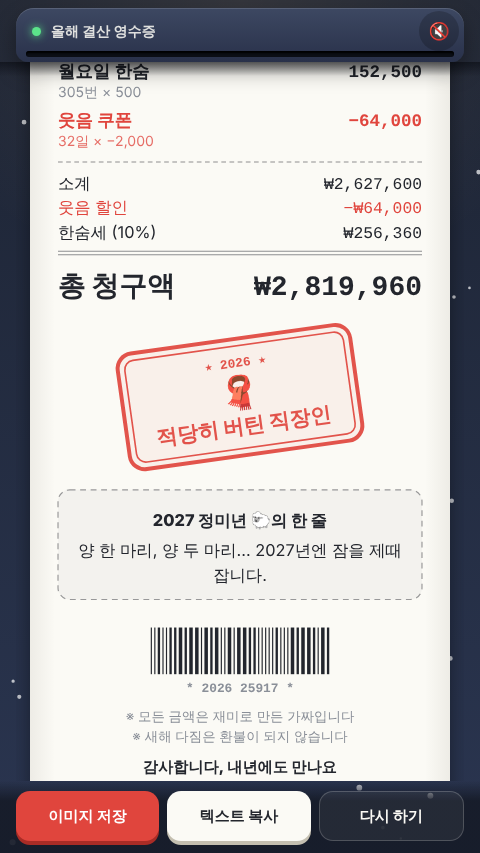
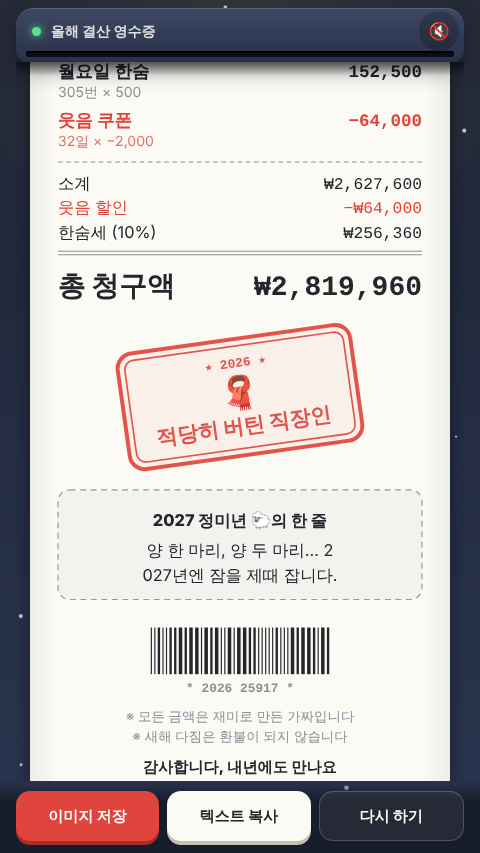
Add the Google Drive handoff for Gemini research and cover images
Records the Drive folders the owner uses for subscription-only steps,
adds the first cover prompt to the job, and makes the play build prefer
an item's cover.png over its QA screenshot.

Claude-Session: https://claude.ai/code/session_01SMaRuHdbRC5QbeCk6x1L2Q

Changed region(s): [[0.1562, 0.6401, 0.8438, 0.7011]]

diff --git a/play/items/year-end-receipt/index.html b/play/items/year-end-receipt/index.html
@@ -513,7 +513,8 @@
 
   function wrapText(ctx, s, maxW, font, byChar) {
     ctx.font = font;
-    const tokens = byChar ? Array.from(s) : s.split(/(\s+)/);
+    // Korean wraps by character, but digit/Latin runs stay whole and punctuation sticks to the char before it.
+    const tokens = byChar ? (s.match(/[A-Za-z0-9]+[.,!?…]*|\s+|.[.,!?…]*/gu) || []) : s.split(/(\s+)/);
     const out = []; let cur = '';
     for (const tk of tokens) {
       if (!tk) continue;

diff --git a/docs/PLATFORM.md b/docs/PLATFORM.md
@@ -77,6 +77,17 @@ Sunday 04:00 runner feedback ── agy + codex ─▶ reads /api/stats ─▶ j
 - Jules (Gemini) gets **improvement tasks** as GitHub issues labelled `jules`, for example "make item X work better on small screens (votes: 12 👍 / 9 👎)". Its PRs pass through the same test, Codex review and owner-merge gate.
 - If an agent is unavailable, Claude takes the stage (marked `by: "claude (fallback for …)"`), so a day is never lost.
 
+### Google Drive handoff (manual subscription steps, available now)
+
+Until the Windows runner exists, two Gemini and ChatGPT steps go through the owner's Google Drive. Claude reads and writes Drive through its connector.
+
+| Folder (`My Drive/하루한판/…`) | Claude puts | Owner does | Claude then |
+|---|---|---|---|
+| `조사` | A weekly Gemini Deep Research question | Runs it in the Gemini app and exports the result to Docs in this folder | Reads it, checks the sources, and writes `01-research.md` |
+| `표지이미지` | A cover prompt per item (`03-cover-prompt.md`) | Generates the image in the ChatGPT or Gemini app and uploads `<slug>.png` | Resizes it to 1200×900 and commits `play/items/<slug>/cover.png` in a PR |
+
+Drive links and IDs are not stored in this public repository.
+
 ## 5. Stage contracts
 
 Each stage reads the previous files, writes exactly one output file, and updates `job.json`.

diff --git a/pipeline/jobs/2026-11-20-year-end-receipt/03-cover-prompt.md b/pipeline/jobs/2026-11-20-year-end-receipt/03-cover-prompt.md
@@ -1,0 +1,5 @@
+# Cover image prompt (owner generates in ChatGPT or Gemini app)
+
+Handoff: this prompt is also in Google Drive `My Drive/하루한판/표지이미지`. The owner generates the image in the ChatGPT or Gemini app (subscription, no API) and uploads it there as `year-end-receipt.png`. Claude picks it up, resizes it to 1200×900, and commits it as `play/items/year-end-receipt/cover.png` in a PR. It is published only when the owner merges that PR. Without a cover, the QA screenshot thumbnail is used.
+
+**Prompt (en):** A warm, cute flat illustration in 4:3 landscape. A snowy winter night. On a deep navy desk sits a small ivory receipt printer, with a long curling thermal-paper receipt printing out of it. A red rounded-rectangle rubber stamp mark sits tilted on the receipt. Snowflakes drift past the window. Next to the printer sits a small fluffy white wool sheep plush. There is a steaming coffee mug and a tiny star-shaped lamp. The palette is mostly navy (#1d2433), ivory (#fbfaf5) and red (#e0453d). Soft flat shapes, gentle shadows. No text, letters, numbers or logos anywhere in the image. No real brands or people.
